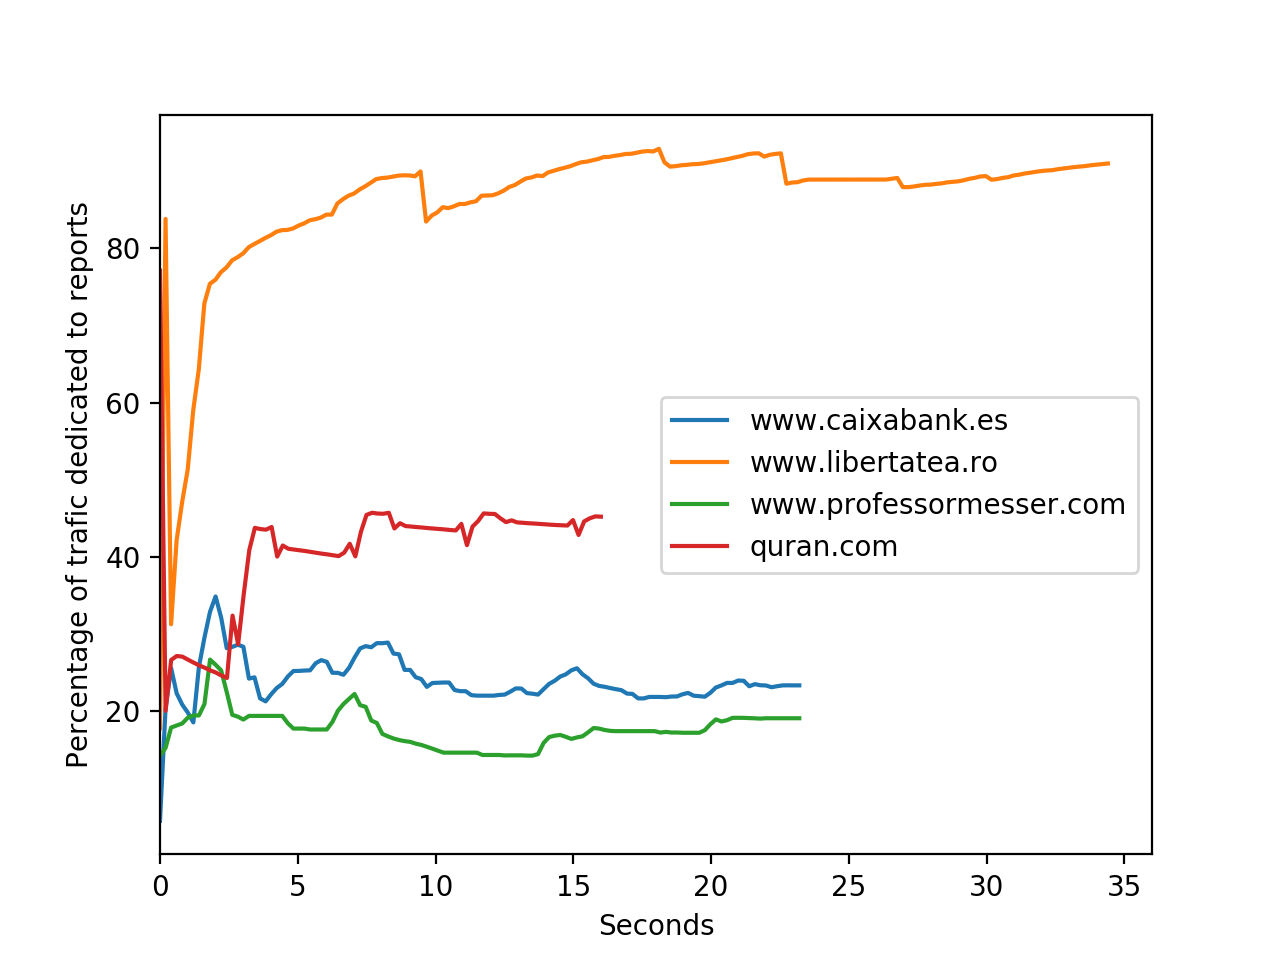
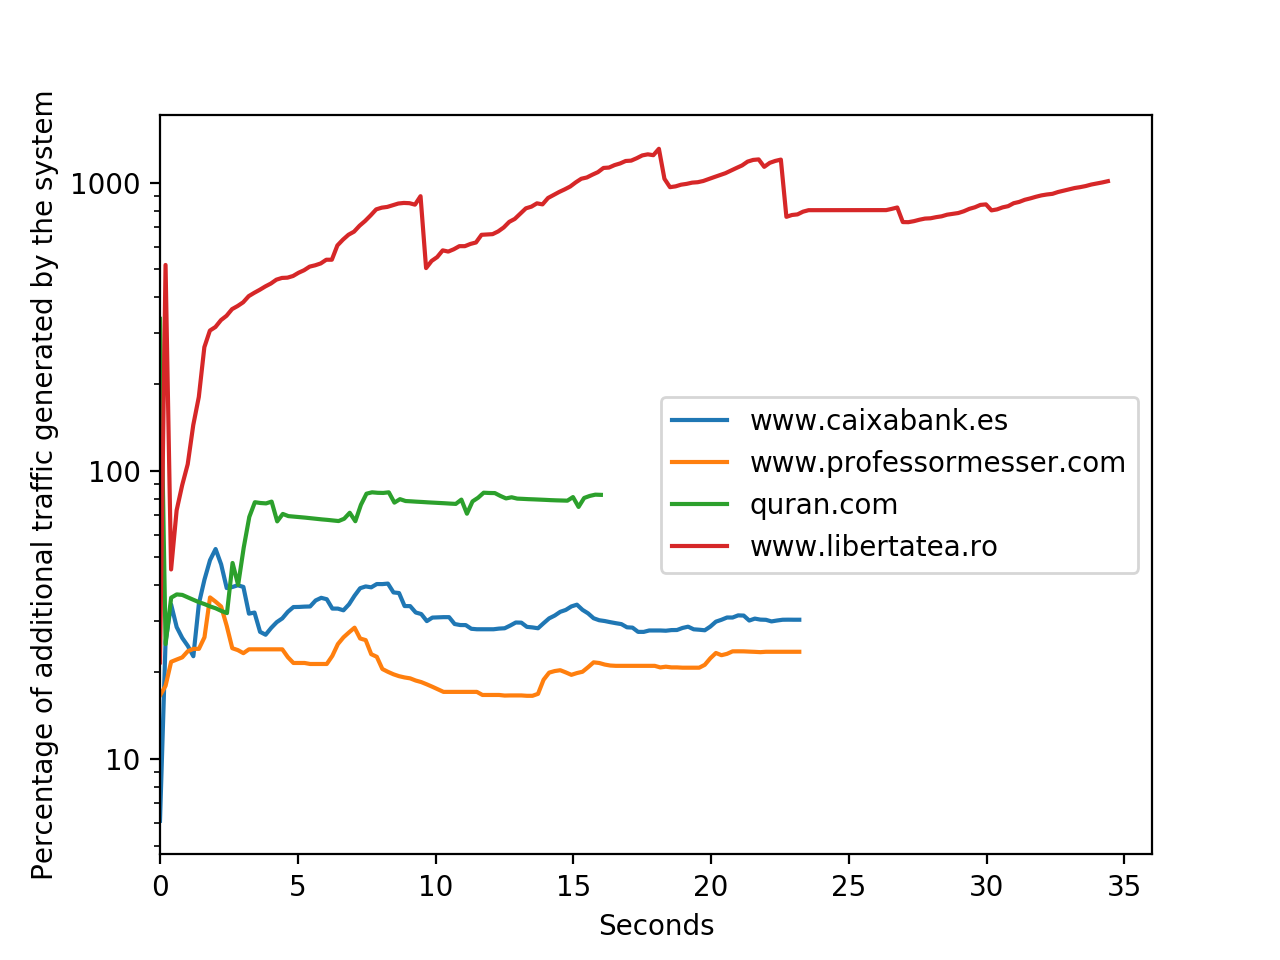
generated images from long experiments and made other images clearer

diff --git a/dissertation/scripts/generate_long_graph.py b/dissertation/scripts/generate_long_graph.py
@@ -4,41 +4,44 @@ import numpy as np
 
 INPUT_DIR = '../../node/run_logs'
 OUTPUT_DIR = '../imgs'
-OUTPUT_FILE = '/netword_usage_plot.png'
+OUTPUT_FILE = '/netword_usage_long_plot.png'
 
 files = {
-    'caixabank': 'www.caixabank.es',
-    'professormesser': 'www.professormesser.com',
-    'quran': 'quran.com',
-    'libertatea': 'www.libertatea.ro',
+    'caixabank_long': 'www.caixabank.es',
+    'professormesser_long': 'www.professormesser.com',
 }
 
 fig, ax = plt.subplots()
 
 for f in files:
     with open(INPUT_DIR+'/'+f, 'r') as file:
-        data = []
+        ys = []
+        xs = []
+        start = 0
         for line in file:
             if line[0:6] == 'Total:':
                 splits = line.strip().split('\t')
                 try :
-                    dpoint = float(splits[2][splits[2].index(':')+2:splits[2].index('%')])
+                    dpoint = float(splits[2][splits[2].index(':')+2:])
+                    time = float(splits[3][splits[3].index(':')+2:]) / 1000.0 / 60.0
                     if not np.isnan(dpoint):
-                        data.append(dpoint/(1.0-dpoint)*100.0)
+                        ys.append(dpoint/(1.0-dpoint)*100.0)
+                        if start == 0:
+                            start = time
+                        xs.append(time - start)
                 except :
+                    print('error')
                     pass
-        x = np.linspace(0, 0.2*len(data), len(data))
-        plt.plot(x, data, label=files[f]) 
+        plt.plot(xs, ys, label=files[f]) 
 
-plt.xlabel('Seconds')
+plt.xlabel('Minutes')
 plt.ylabel('Percentage of additional traffic generated by the system')
-plt.yscale('log')
 
 ax.yaxis.set_major_formatter(ScalarFormatter())
 
 plt.legend(loc='center right')
 
-plt.xlim(0, 36)
+plt.ylim(0,350)
 
 plt.savefig(OUTPUT_DIR + OUTPUT_FILE, dpi=200)
 

diff --git a/dissertation/scripts/generate_3graph.py b/dissertation/scripts/generate_3graph.py
@@ -4,13 +4,12 @@ import numpy as np
 
 INPUT_DIR = '../../node/run_logs'
 OUTPUT_DIR = '../imgs'
-OUTPUT_FILE = '/netword_usage_plot.png'
+OUTPUT_FILE = '/netword_usage_3_plot.png'
 
 files = {
     'caixabank': 'www.caixabank.es',
     'professormesser': 'www.professormesser.com',
     'quran': 'quran.com',
-    'libertatea': 'www.libertatea.ro',
 }
 
 fig, ax = plt.subplots()
@@ -32,13 +31,13 @@ for f in files:
 
 plt.xlabel('Seconds')
 plt.ylabel('Percentage of additional traffic generated by the system')
-plt.yscale('log')
 
 ax.yaxis.set_major_formatter(ScalarFormatter())
 
 plt.legend(loc='center right')
 
-plt.xlim(0, 36)
+plt.xlim(0, 25)
+plt.ylim(0, 100)
 
 plt.savefig(OUTPUT_DIR + OUTPUT_FILE, dpi=200)
 
